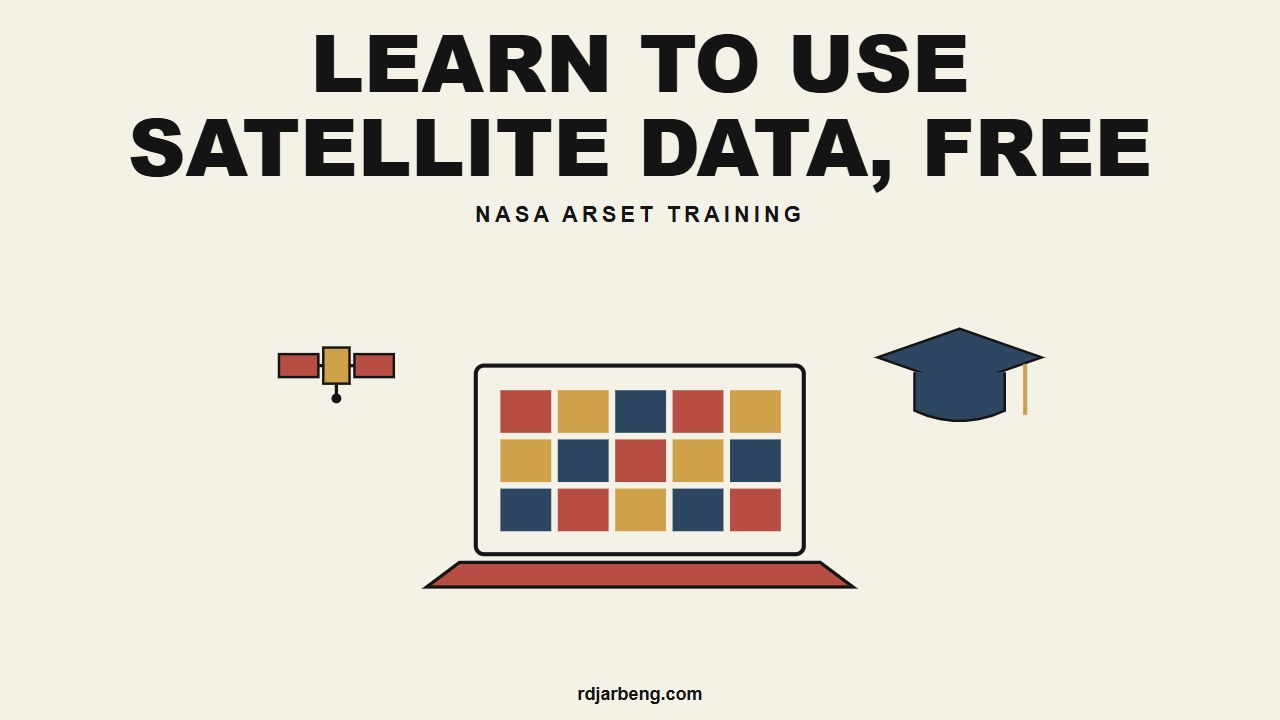
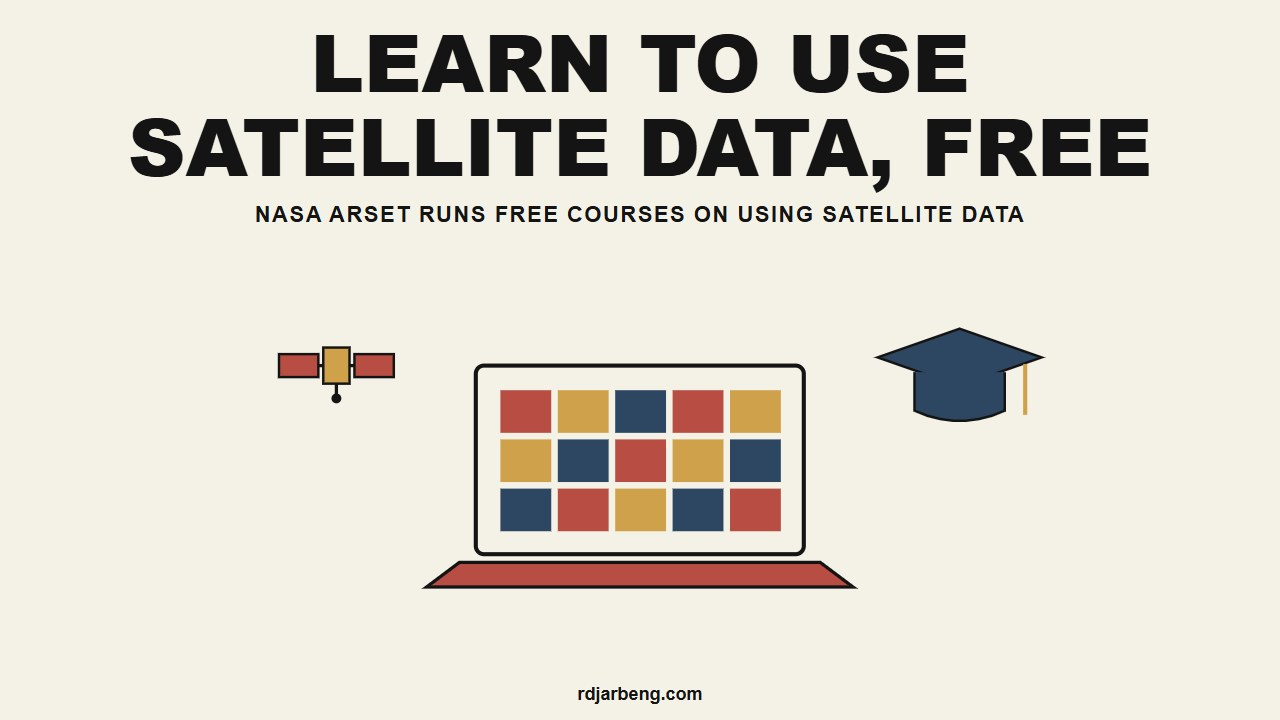
Organisation draft covers: subtitles that say what each one does

Changed region(s): [[0.1875, 0.275, 0.8125, 0.3056]]

diff --git a/scripts/diagrams/covers/eo_org_covers.py b/scripts/diagrams/covers/eo_org_covers.py
@@ -131,32 +131,32 @@ def art_smos():
 
 # name -> (headline, hook, illustration, alt text, post file stem)
 COVERS = {
-    "digital_earth_africa": ("FREE SATELLITE DATA FOR AFRICA", "DIGITAL EARTH AFRICA", art_dea,
-                             "A satellite above a grid of map tiles in green and sand with a dark band of water, under the headline 'Free satellite data for africa' and the name Digital Earth Africa",
+    "digital_earth_africa": ("FREE SATELLITE DATA FOR AFRICA", "DIGITAL EARTH AFRICA: READY-TO-USE IMAGES OF THE WHOLE CONTINENT", art_dea,
+                             "A satellite above a grid of map tiles in green and sand with a dark band of water, under the headline 'Free satellite data for africa' and the line 'Digital earth africa: ready-to-use images of the whole continent'",
                              "2026-11-27-digital-earth-africa-free-satellite-data-for-africa"),
-    "global_forest_watch": ("SPOTTING FOREST LOSS FROM SPACE", "GLOBAL FOREST WATCH", art_gfw,
-                            "A satellite above a row of trees with a cleared gap of stumps marked by alert pins, under the headline 'Spotting forest loss from space' and the name Global Forest Watch",
+    "global_forest_watch": ("SPOTTING FOREST LOSS FROM SPACE", "GLOBAL FOREST WATCH SENDS ALERTS WHEN TREES DISAPPEAR", art_gfw,
+                            "A satellite above a row of trees with a cleared gap of stumps marked by alert pins, under the headline 'Spotting forest loss from space' and the line 'Global forest watch sends alerts when trees disappear'",
                             "2026-11-27-global-forest-watch-tracking-tree-loss-from-space"),
-    "global_urban_footprint": ("MAPPING EVERY CITY FROM ORBIT", "DLR GLOBAL URBAN FOOTPRINT", art_guf,
-                               "A satellite sending radar waves down to a skyline of city blocks, under the headline 'Mapping every city from orbit' and the name DLR Global Urban Footprint",
+    "global_urban_footprint": ("MAPPING EVERY CITY FROM ORBIT", "DLR'S RADAR MAP OF BUILT-UP AREAS ACROSS THE GLOBE", art_guf,
+                               "A satellite sending radar waves down to a skyline of city blocks, under the headline 'Mapping every city from orbit' and the line 'Dlr's radar map of built-up areas across the globe'",
                                "2026-11-27-global-urban-footprint-mapping-cities-from-space"),
-    "missing_maps": ("VOLUNTEERS MAPPING UNMAPPED COMMUNITIES", "MISSING MAPS", art_missing_maps,
-                     "A map with roads and dashed outlines of buildings being traced, a location pin and a satellite above, under the headline 'Volunteers mapping unmapped communities' and the name Missing Maps",
+    "missing_maps": ("VOLUNTEERS MAPPING UNMAPPED COMMUNITIES", "MISSING MAPS: VOLUNTEERS TRACE BUILDINGS SO AID CAN REACH PEOPLE", art_missing_maps,
+                     "A map with roads and dashed outlines of buildings being traced, a location pin and a satellite above, under the headline 'Volunteers mapping unmapped communities' and the line 'Missing maps: volunteers trace buildings so aid can reach people'",
                      "2026-11-27-missing-maps-volunteer-mapping-for-humanitarian-response"),
-    "nasa_arset": ("LEARN TO USE SATELLITE DATA, FREE", "NASA ARSET TRAINING", art_arset,
-                   "A laptop showing a satellite map, a satellite beside it and a graduation cap, under the headline 'Learn to use satellite data, free' and the name NASA ARSET training",
+    "nasa_arset": ("LEARN TO USE SATELLITE DATA, FREE", "NASA ARSET RUNS FREE COURSES ON USING SATELLITE DATA", art_arset,
+                   "A laptop showing a satellite map, a satellite beside it and a graduation cap, under the headline 'Learn to use satellite data, free' and the line 'Nasa arset runs free courses on using satellite data'",
                    "2026-11-27-nasa-arset-free-remote-sensing-training"),
-    "nasa_black_marble": ("NIGHT LIGHTS REVEAL POWER CUTS", "NASA BLACK MARBLE", art_black_marble,
-                          "A satellite above a dark landscape dotted with clusters of city lights, under the headline 'Night lights reveal power cuts' and the name NASA Black Marble",
+    "nasa_black_marble": ("NIGHT LIGHTS REVEAL POWER CUTS", "NASA BLACK MARBLE TRACKS LIGHTS AFTER STORMS AND OUTAGES", art_black_marble,
+                          "A satellite above a dark landscape dotted with clusters of city lights, under the headline 'Night lights reveal power cuts' and the line 'Nasa black marble tracks lights after storms and outages'",
                           "2026-11-27-nasa-black-marble-night-lights-from-space"),
-    "nasa_harvest": ("SATELLITES THAT WATCH CROPS GROW", "NASA HARVEST", art_harvest,
-                     "A satellite looking down on rows of crop fields, under the headline 'Satellites that watch crops grow' and the name NASA Harvest",
+    "nasa_harvest": ("SATELLITES THAT WATCH CROPS GROW", "NASA HARVEST USES SATELLITES TO MONITOR CROPS AND FOOD SUPPLY", art_harvest,
+                     "A satellite looking down on rows of crop fields, under the headline 'Satellites that watch crops grow' and the line 'Nasa harvest uses satellites to monitor crops and food supply'",
                      "2026-11-27-nasa-harvest-satellite-data-for-food-security"),
-    "servir": ("SATELLITE DATA FOR DROUGHTS AND FLOODS", "SERVIR", art_servir,
-               "A satellite linked to a rain cloud falling on a row of fields, under the headline 'Satellite data for droughts and floods' and the name SERVIR",
+    "servir": ("SATELLITE DATA FOR DROUGHTS AND FLOODS", "SERVIR HUBS TURN SATELLITE DATA INTO DROUGHT AND FLOOD TOOLS", art_servir,
+               "A satellite linked to a rain cloud falling on a row of fields, under the headline 'Satellite data for droughts and floods' and the line 'Servir hubs turn satellite data into drought and flood tools'",
                "2026-11-27-servir-satellite-data-for-development"),
-    "smos": ("MEASURING SOIL WATER FROM SPACE", "ESA SMOS MISSION", art_smos,
-             "A satellite above a cross-section of soil layers holding water drops, with seedlings on top, under the headline 'Measuring soil water from space' and the name ESA SMOS mission",
+    "smos": ("MEASURING SOIL WATER FROM SPACE", "ESA'S SMOS SATELLITE MEASURES MOISTURE IN THE TOP LAYER OF SOIL", art_smos,
+             "A satellite above a cross-section of soil layers holding water drops, with seedlings on top, under the headline 'Measuring soil water from space' and the line 'Esa's smos satellite measures moisture in the top layer of soil'",
              "2026-11-27-smos-measuring-soil-moisture-from-space"),
 }
 
@@ -176,7 +176,7 @@ def cover(headline, hook, art):
   <rect width="1280" height="720" fill="{PAPER}"/>
   <g fill="{INK}" font-family="'Arial Black', 'Helvetica Neue', Impact, sans-serif" text-anchor="middle">
     <text x="640" y="{y1}" font-size="{size}" font-weight="900">{tspans}</text>
-    <text x="640" y="{hook_y}" font-size="22" font-weight="700" letter-spacing="4" font-family="Arial, Helvetica, sans-serif">{hook}</text>
+    <text x="640" y="{hook_y}" font-size="22" font-weight="700" letter-spacing="1.5" font-family="Arial, Helvetica, sans-serif">{hook}</text>
   </g>
   <g transform="translate(115 95) scale(0.82)">{art()}</g>
   <text x="640" y="700" font-family="Arial, Helvetica, sans-serif" font-size="18" font-weight="600" fill="{INK}" text-anchor="middle">rdjarbeng.com</text>

diff --git a/_posts/2026-11-27-nasa-arset-free-remote-sensing-training.md b/_posts/2026-11-27-nasa-arset-free-remote-sensing-training.md
@@ -12,7 +12,7 @@ key_points:
   - "Online trainings have no fee, and past slides, Q&A transcripts and homework are posted for review."
   - "A 2024 Cape Town workshop and a Ghanaian student's planned water quality study show how the training is used in Africa."
 image: /assets/images/posts/covers/nasa_arset_cover.jpg
-image_alt: "A laptop showing a satellite map, a satellite beside it and a graduation cap, under the headline 'Learn to use satellite data, free' and the name NASA ARSET training"
+image_alt: "A laptop showing a satellite map, a satellite beside it and a graduation cap, under the headline 'Learn to use satellite data, free' and the line 'Nasa arset runs free courses on using satellite data'"
 content_type: explainer
 ai_assistance:
   - drafting
@@ -21,7 +21,7 @@ layout: post
 
 Free satellite data only helps if you know how to read it. Turning images of a flood, a dry farm or a growing town into information takes training. [NASA's Applied Remote Sensing Training Program](https://www.earthdata.nasa.gov/data/projects/arset), known as ARSET, teaches these skills. Its online trainings have no course fee.
 
-![A laptop showing a satellite map, a satellite beside it and a graduation cap, under the headline 'Learn to use satellite data, free' and the name NASA ARSET training](/assets/images/posts/covers/nasa_arset_cover.jpg)
+![A laptop showing a satellite map, a satellite beside it and a graduation cap, under the headline 'Learn to use satellite data, free' and the line 'Nasa arset runs free courses on using satellite data'](/assets/images/posts/covers/nasa_arset_cover.jpg)
 
 [Remote sensing](https://www.earthdata.nasa.gov/learn/trainings/fundamentals-remote-sensing) is the science of measuring Earth from satellites and other sensors. A sensor is an instrument that measures light or other energy. ARSET says its trainings build skills for air quality, public health, agriculture, disasters, ecological conservation, water resource management, climate resilience and wildland fires. Its [training list](https://www.earthdata.nasa.gov/data/projects/arset/learn) can be filtered by topic, training level, training type and language.
 

diff --git a/_posts/2026-11-27-global-forest-watch-tracking-tree-loss-from-space.md b/_posts/2026-11-27-global-forest-watch-tracking-tree-loss-from-space.md
@@ -12,7 +12,7 @@ key_points:
   - "Community groups in Cameroon used near real time alerts to track clearing in the Mengamé Gorilla Sanctuary."
   - "In Kenya, the Mara Elephant Project uses GLAD deforestation alerts and fire alerts to watch forests around the Maasai Mara."
 image: /assets/images/posts/covers/global_forest_watch_cover.jpg
-image_alt: "A satellite above a row of trees with a cleared gap of stumps marked by alert pins, under the headline 'Spotting forest loss from space' and the name Global Forest Watch"
+image_alt: "A satellite above a row of trees with a cleared gap of stumps marked by alert pins, under the headline 'Spotting forest loss from space' and the line 'Global forest watch sends alerts when trees disappear'"
 content_type: explainer
 ai_assistance:
   - drafting
@@ -21,7 +21,7 @@ layout: post
 
 If you want to know whether forest near you is being cleared, you need information that is up to date. [Global Forest Watch](https://www.globalforestwatch.org/) puts satellite images and forest alerts online, so anyone can see where clearing is happening. Alerts are warnings that appear when satellite images show a possible change, such as trees being removed.
 
-![A satellite above a row of trees with a cleared gap of stumps marked by alert pins, under the headline 'Spotting forest loss from space' and the name Global Forest Watch](/assets/images/posts/covers/global_forest_watch_cover.jpg)
+![A satellite above a row of trees with a cleared gap of stumps marked by alert pins, under the headline 'Spotting forest loss from space' and the line 'Global forest watch sends alerts when trees disappear'](/assets/images/posts/covers/global_forest_watch_cover.jpg)
 
 The [World Resources Institute](https://www.globalforestwatch.org/about/) established the service in 1997 and launched its interactive online platform in 2014. The service was [renamed Global Nature Watch in 2026](https://www.globalnaturewatch.org/blog/data-and-tools/gfw-now-global-nature-watch/). According to the renaming announcement, nothing changes for users except the name. Saved areas, subscriptions, alerts and saved links keep working.
 

diff --git a/_posts/2026-11-27-nasa-harvest-satellite-data-for-food-security.md b/_posts/2026-11-27-nasa-harvest-satellite-data-for-food-security.md
@@ -12,7 +12,7 @@ key_points:
   - "In Kenya, the ADAPT-Kenya project is building a government data system that produces in-season agricultural data products."
   - "ADAPT-Kenya plans early warning systems for droughts, floods and other natural disasters."
 image: /assets/images/posts/covers/nasa_harvest_cover.jpg
-image_alt: "A satellite looking down on rows of crop fields, under the headline 'Satellites that watch crops grow' and the name NASA Harvest"
+image_alt: "A satellite looking down on rows of crop fields, under the headline 'Satellites that watch crops grow' and the line 'Nasa harvest uses satellites to monitor crops and food supply'"
 content_type: explainer
 ai_assistance:
   - drafting
@@ -21,7 +21,7 @@ layout: post
 
 When crops fail, governments and aid groups need to know quickly, while there is still time to act. [NASA Harvest](https://www.nasaharvest.org/) is NASA's global food supply and agriculture consortium, meaning a group of organisations working together. It was [commissioned by NASA in 2017](https://www.nasaharvest.org/about-us). It brings together agriculture experts and remote sensing experts, meaning people who measure the land from satellites. They work with farmers, agribusinesses, economists, humanitarian organisations, governments and technology developers. Its management hub is at the University of Maryland's [Department of Geographical Sciences](https://www.nasaharvest.org/about-us).
 
-![A satellite looking down on rows of crop fields, under the headline 'Satellites that watch crops grow' and the name NASA Harvest](/assets/images/posts/covers/nasa_harvest_cover.jpg)
+![A satellite looking down on rows of crop fields, under the headline 'Satellites that watch crops grow' and the line 'Nasa harvest uses satellites to monitor crops and food supply'](/assets/images/posts/covers/nasa_harvest_cover.jpg)
 
 Its [stated mission](https://www.nasaharvest.org/about-us) is to advance the adoption of satellite Earth observations by public and private organisations. The aim is to benefit food supply, agricultural production, market stability and human resilience.
 

diff --git a/_posts/2026-11-27-smos-measuring-soil-moisture-from-space.md b/_posts/2026-11-27-smos-measuring-soil-moisture-from-space.md
@@ -12,7 +12,7 @@ key_points:
   - "In 2011, SMOS maps of the Horn of Africa showed little or no moisture in surface soil in some key farming areas of Somalia."
   - "SMOS data are free and open, but an EO Sign In account is needed to download them."
 image: /assets/images/posts/covers/smos_cover.jpg
-image_alt: "A satellite above a cross-section of soil layers holding water drops, with seedlings on top, under the headline 'Measuring soil water from space' and the name ESA SMOS mission"
+image_alt: "A satellite above a cross-section of soil layers holding water drops, with seedlings on top, under the headline 'Measuring soil water from space' and the line 'Esa's smos satellite measures moisture in the top layer of soil'"
 content_type: explainer
 ai_assistance:
   - drafting
@@ -21,7 +21,7 @@ layout: post
 
 Knowing how wet the soil is can warn of drought before crops suffer. Before SMOS was launched in 2009, there were [relatively few global datasets](https://www.esa.int/articles/about-us/directorates/earth-observation-programmes/futureeo/smos/mapping-moisture) on soil moisture or ocean salinity. Soil moisture is the water held in the top layer of soil. Ocean salinity is the salt content of seawater. [SMOS](https://www.esa.int/missions/about-us/directorates/earth-observation-programmes/futureeo/smos) is the European Space Agency's Soil Moisture and Ocean Salinity mission. It is one of ESA's [Earth Explorer](https://www.esa.int/articles/about-us/directorates/earth-observation-programmes/futureeo/smos/introducing-smos) missions.
 
-![A satellite above a cross-section of soil layers holding water drops, with seedlings on top, under the headline 'Measuring soil water from space' and the name ESA SMOS mission](/assets/images/posts/covers/smos_cover.jpg)
+![A satellite above a cross-section of soil layers holding water drops, with seedlings on top, under the headline 'Measuring soil water from space' and the line 'Esa's smos satellite measures moisture in the top layer of soil'](/assets/images/posts/covers/smos_cover.jpg)
 
 ## What SMOS provides
 

diff --git a/_posts/2026-11-27-nasa-black-marble-night-lights-from-space.md b/_posts/2026-11-27-nasa-black-marble-night-lights-from-space.md
@@ -12,7 +12,7 @@ key_points:
   - "The data are free under NASA's open science policy. Worldview and Earthdata Search are NASA's tools for viewing and downloading them."
   - "NASA documents uses such as population along the Nile, power outages after Hurricane Melissa in Jamaica, and gas flares and illegal fishing."
 image: /assets/images/posts/covers/nasa_black_marble_cover.jpg
-image_alt: "A satellite above a dark landscape dotted with clusters of city lights, under the headline 'Night lights reveal power cuts' and the name NASA Black Marble"
+image_alt: "A satellite above a dark landscape dotted with clusters of city lights, under the headline 'Night lights reveal power cuts' and the line 'Nasa black marble tracks lights after storms and outages'"
 content_type: explainer
 ai_assistance:
   - drafting
@@ -21,7 +21,7 @@ layout: post
 
 Satellites can see where lights are on at night. That tells you where people live and whether the power is working. [NASA's Black Marble](https://www.earthdata.nasa.gov/data/projects/black-marble) is a suite of related data products. It turns satellite images of artificial light into a daily, monthly and yearly record of human activity. Its lead scientist, or principal investigator, is Zhuosen Wang of the University of Maryland and NASA Goddard Space Flight Center. The Suomi NPP data are distributed through NASA's LAADS DAAC, an archive for these data, and the same project page lists the data access tools.
 
-![A satellite above a dark landscape dotted with clusters of city lights, under the headline 'Night lights reveal power cuts' and the name NASA Black Marble](/assets/images/posts/covers/nasa_black_marble_cover.jpg)
+![A satellite above a dark landscape dotted with clusters of city lights, under the headline 'Night lights reveal power cuts' and the line 'Nasa black marble tracks lights after storms and outages'](/assets/images/posts/covers/nasa_black_marble_cover.jpg)
 
 ## What the products contain
 

diff --git a/_posts/2026-11-27-missing-maps-volunteer-mapping-for-humanitarian-response.md b/_posts/2026-11-27-missing-maps-volunteer-mapping-for-humanitarian-response.md
@@ -12,7 +12,7 @@ key_points:
   - "During the 2026 Ebola outbreak in Ituri Province, DR Congo, mappers updated village locations and buildings for the response."
   - "Anyone can start for free with MapSwipe or the HOT Tasking Manager, and mapathons provide training."
 image: /assets/images/posts/covers/missing_maps_cover.jpg
-image_alt: "A map with roads and dashed outlines of buildings being traced, a location pin and a satellite above, under the headline 'Volunteers mapping unmapped communities' and the name Missing Maps"
+image_alt: "A map with roads and dashed outlines of buildings being traced, a location pin and a satellite above, under the headline 'Volunteers mapping unmapped communities' and the line 'Missing maps: volunteers trace buildings so aid can reach people'"
 content_type: explainer
 ai_assistance:
   - drafting
@@ -21,7 +21,7 @@ layout: post
 
 Aid teams need to find villages, roads and buildings on a map before they can reach people in a crisis. [Missing Maps](https://www.missingmaps.org/) is an open, collaborative project in which volunteers map areas where humanitarian organisations work with people at risk of disasters and crises. It is a [collective of organisations](https://www.missingmaps.org/about/), and the Humanitarian OpenStreetMap Team (HOT) is one of its founders. Anyone can take part.
 
-![A map with roads and dashed outlines of buildings being traced, a location pin and a satellite above, under the headline 'Volunteers mapping unmapped communities' and the name Missing Maps](/assets/images/posts/covers/missing_maps_cover.jpg)
+![A map with roads and dashed outlines of buildings being traced, a location pin and a satellite above, under the headline 'Volunteers mapping unmapped communities' and the line 'Missing maps: volunteers trace buildings so aid can reach people'](/assets/images/posts/covers/missing_maps_cover.jpg)
 
 ## What Missing Maps provides
 

diff --git a/_posts/2026-11-27-servir-satellite-data-for-development.md b/_posts/2026-11-27-servir-satellite-data-for-development.md
@@ -12,7 +12,7 @@ key_points:
   - "Official examples include rainfall outlooks used by Kenya Meteorological Service offices and charcoal production monitoring in Ghana."
   - "The ClimateSERV map and the SERVIR App Center are public pages."
 image: /assets/images/posts/covers/servir_cover.jpg
-image_alt: "A satellite linked to a rain cloud falling on a row of fields, under the headline 'Satellite data for droughts and floods' and the name SERVIR"
+image_alt: "A satellite linked to a rain cloud falling on a row of fields, under the headline 'Satellite data for droughts and floods' and the line 'Servir hubs turn satellite data into drought and flood tools'"
 content_type: explainer
 ai_assistance:
   - drafting
@@ -21,7 +21,7 @@ layout: post
 
 In many regions that SERVIR works in, long-term ground rainfall records are limited. [ClimateSERV's about page](https://climateserv.servirglobal.net/about) says satellite and model rainfall data are then critical for predicting droughts and estimating crop conditions. [SERVIR](https://www.servirglobal.net/about/) turns Earth observation data into services for climate adaptation, disaster resilience, food security and water management. Earth observation data is information collected about the planet, often by satellites.
 
-![A satellite linked to a rain cloud falling on a row of fields, under the headline 'Satellite data for droughts and floods' and the name SERVIR](/assets/images/posts/covers/servir_cover.jpg)
+![A satellite linked to a rain cloud falling on a row of fields, under the headline 'Satellite data for droughts and floods' and the line 'Servir hubs turn satellite data into drought and flood tools'](/assets/images/posts/covers/servir_cover.jpg)
 
 ## History and current status
 

diff --git a/_posts/2026-11-27-digital-earth-africa-free-satellite-data-for-africa.md b/_posts/2026-11-27-digital-earth-africa-free-satellite-data-for-africa.md
@@ -12,7 +12,7 @@ key_points:
   - "The programme is run by the International Centre of Insect Physiology and Ecology (icipe)."
   - "Free online training is available in both English and French, including weekly live sessions."
 image: /assets/images/posts/covers/digital_earth_africa_cover.jpg
-image_alt: "A satellite above a grid of map tiles in green and sand with a dark band of water, under the headline 'Free satellite data for africa' and the name Digital Earth Africa"
+image_alt: "A satellite above a grid of map tiles in green and sand with a dark band of water, under the headline 'Free satellite data for africa' and the line 'Digital earth africa: ready-to-use images of the whole continent'"
 content_type: explainer
 ai_assistance:
   - drafting
@@ -21,7 +21,7 @@ layout: post
 
 If you plan for floods, droughts or food supplies in Africa, you need reliable information about land and water. [Digital Earth Africa](https://digitalearthafrica.org/en_za/) (DE Africa) provides free and open satellite data for the whole continent. The programme is run by the [International Centre of Insect Physiology and Ecology](https://digitalearthafrica.org/en_za/about-digital-earth-africa/) (icipe).
 
-![A satellite above a grid of map tiles in green and sand with a dark band of water, under the headline 'Free satellite data for africa' and the name Digital Earth Africa](/assets/images/posts/covers/digital_earth_africa_cover.jpg)
+![A satellite above a grid of map tiles in green and sand with a dark band of water, under the headline 'Free satellite data for africa' and the line 'Digital earth africa: ready-to-use images of the whole continent'](/assets/images/posts/covers/digital_earth_africa_cover.jpg)
 
 ## What the programme provides
 

diff --git a/_posts/2026-11-27-global-urban-footprint-mapping-cities-from-space.md b/_posts/2026-11-27-global-urban-footprint-mapping-cities-from-space.md
@@ -12,7 +12,7 @@ key_points:
   - "DLR later built the World Settlement Footprint from free Landsat and Sentinel data, at 10 metre resolution."
   - "The Global Urban Footprint data are free for scientific and non-commercial use through an email request to DLR."
 image: /assets/images/posts/covers/global_urban_footprint_cover.jpg
-image_alt: "A satellite sending radar waves down to a skyline of city blocks, under the headline 'Mapping every city from orbit' and the name DLR Global Urban Footprint"
+image_alt: "A satellite sending radar waves down to a skyline of city blocks, under the headline 'Mapping every city from orbit' and the line 'Dlr's radar map of built-up areas across the globe'"
 content_type: explainer
 ai_assistance:
   - drafting
@@ -21,7 +21,7 @@ layout: post
 
 A free worldwide map can show where towns and cities sit and how much land they cover. The Global Urban Footprint (GUF) is one such map. [DLR](https://www.dlr.de/en/eoc), the German Aerospace Center, created it through its Earth Observation Center. The centre includes the [German Remote Sensing Data Center](https://www.dlr.de/en/eoc/about-us/german-remote-sensing-data-center).
 
-![A satellite sending radar waves down to a skyline of city blocks, under the headline 'Mapping every city from orbit' and the name DLR Global Urban Footprint](/assets/images/posts/covers/global_urban_footprint_cover.jpg)
+![A satellite sending radar waves down to a skyline of city blocks, under the headline 'Mapping every city from orbit' and the line 'Dlr's radar map of built-up areas across the globe'](/assets/images/posts/covers/global_urban_footprint_cover.jpg)
 
 ## What the Global Urban Footprint provides
 
